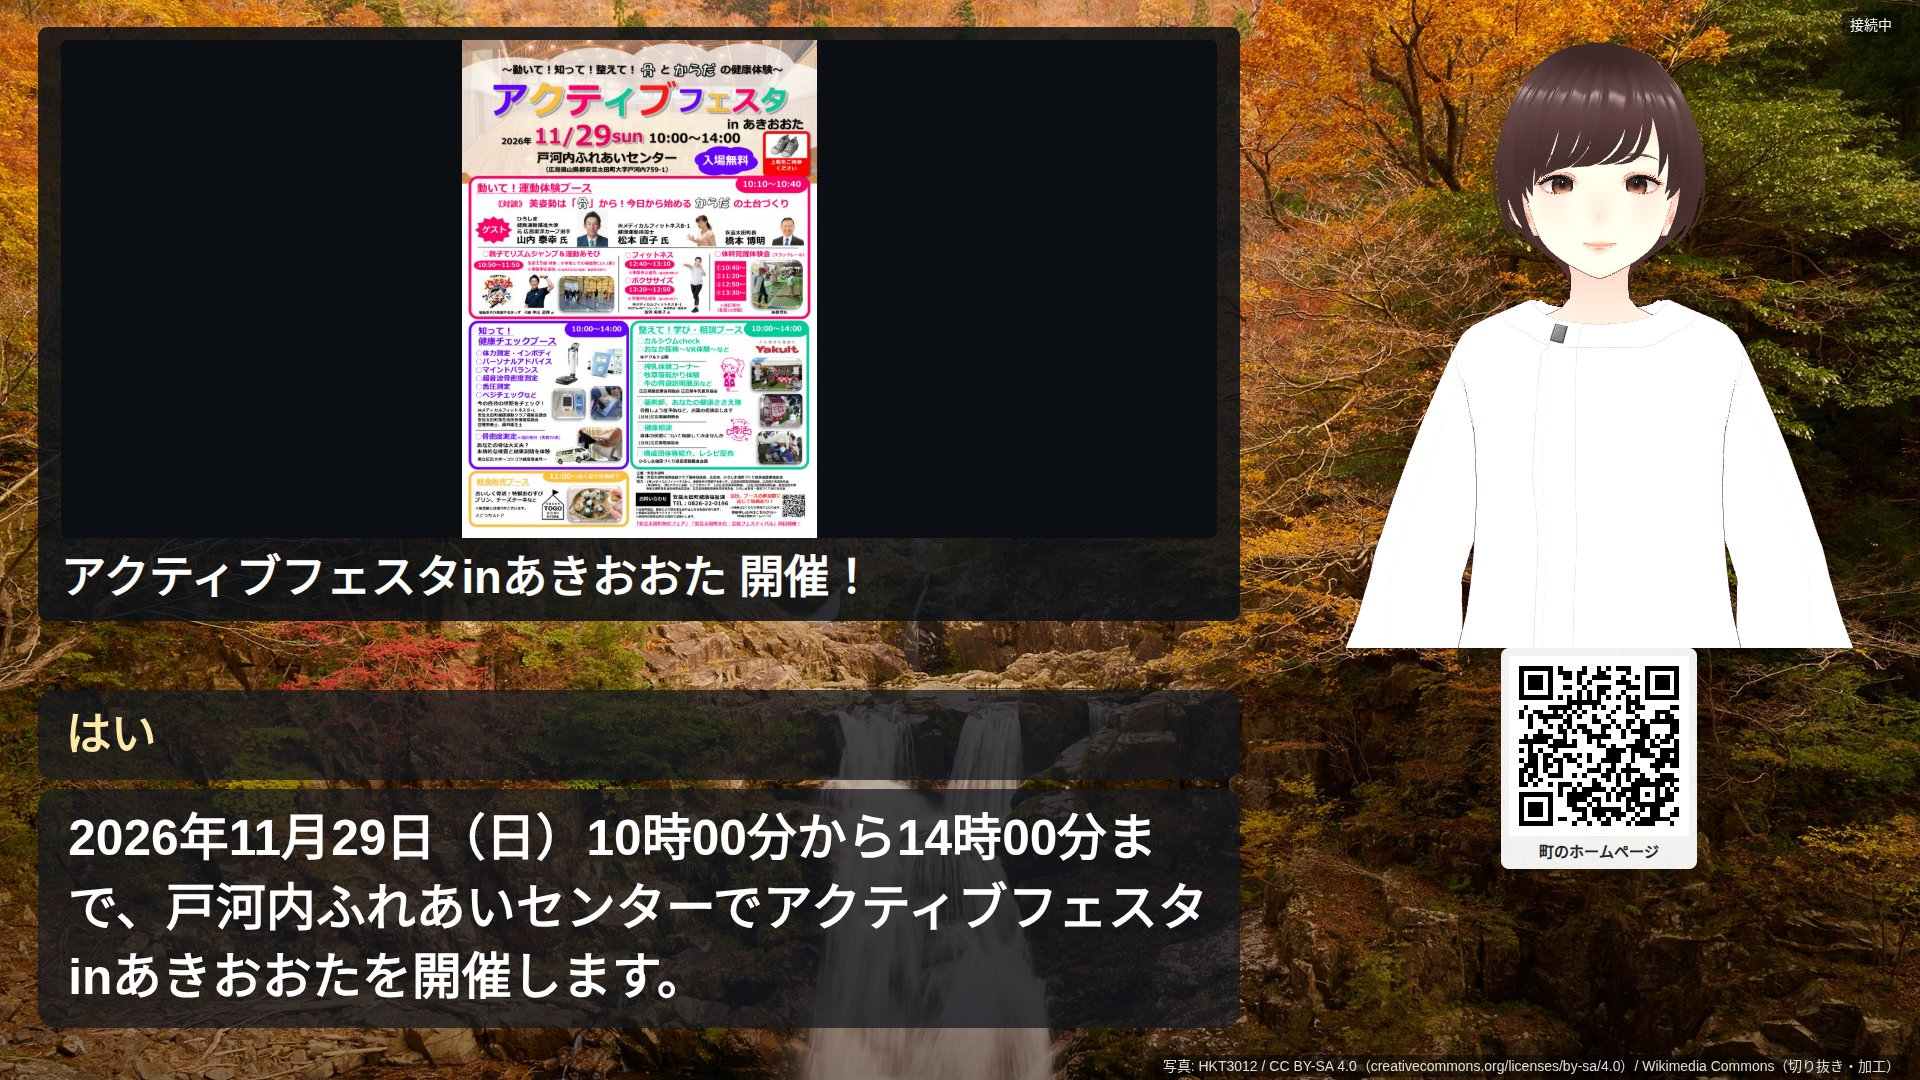
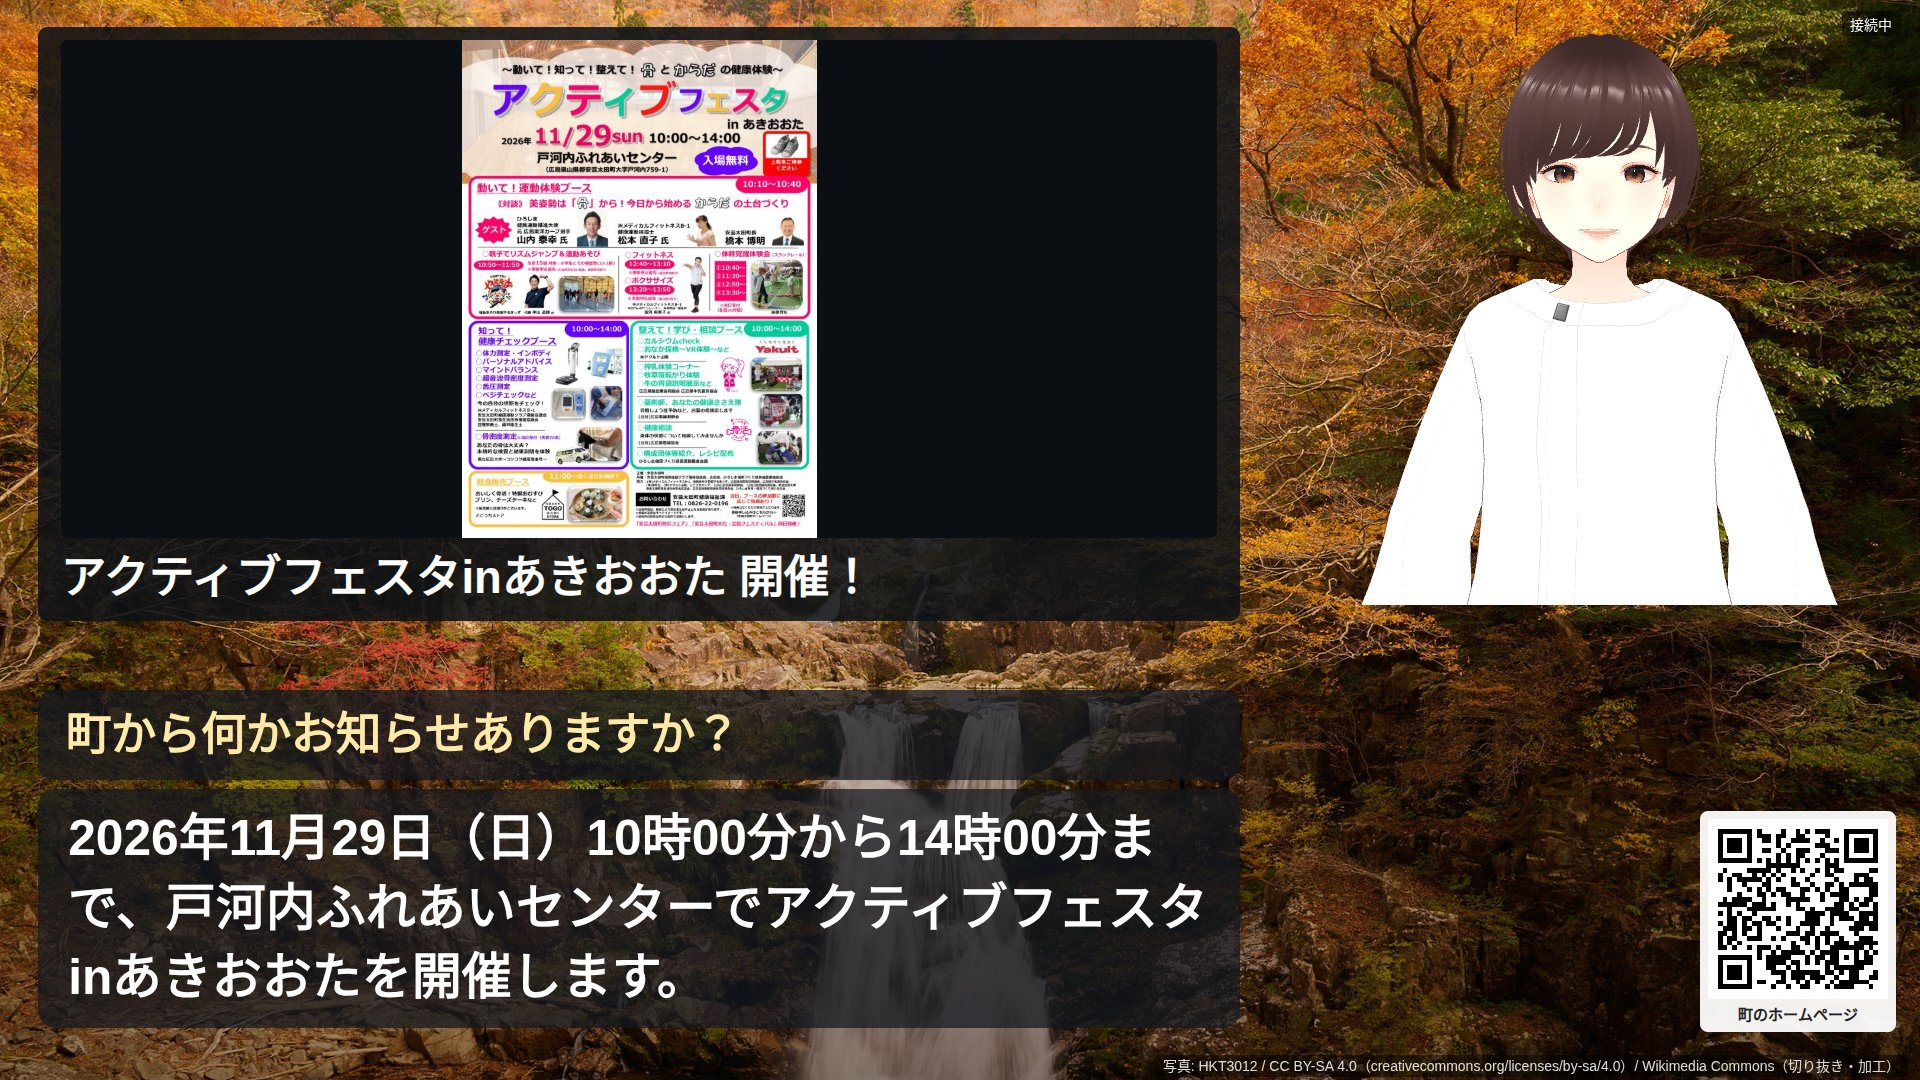
WP11 実機確認の直し（2 回目）: 返事の判定（頭の相槌の後ろの語を優先・「わかりました」は同意）と、横置きの QR を右下隅へ
- actions.yaml の reply: leading_ack / decline_after_ack を足し、「うんないです」「はい大丈夫です」は辞退、「わかりました」「いいですね」は同意
- 横置きのニュース構図: QR は画面の右下隅（右 24px・下 48px、クレジットの上）、アバターは右 1/3 で少し上へ（QR と 207px 空く）
- スクリーンショットの撮り直し、残タスク 1-9（「今週末・いつ」があれば調べるを優先）

Changed region(s): [[0.6875, 0.4889, 1.0, 0.9778], [0.75, 0.0306, 0.9062, 0.3056], [0.0312, 0.6417, 0.375, 0.7028]]

diff --git a/edge/src/style.css b/edge/src/style.css
@@ -138,11 +138,13 @@ body.fading #news {
   font-weight: 600;
 }
 
-/* 横置き: 左 2/3 に記事の板、右 1/3 にアバター（胸から上）、アバターの足元に QR（一辺 180px） */
+/* 横置き: 左 2/3 に記事の板、右 1/3 にアバター（胸から上、少し上に寄せる）、QR（一辺 180px）は画面の右下隅
+   （クレジットの上。右端から 24px・下から 48px）。アバターの下端と QR の上端は 40px 以上空ける
+   （QR の箱は 180px ＋ 文字・余白で約 224px → アバターの canvas は下から 48 + 224 + 40 = 312px より上） */
 body.layout-news:not(.portrait) #avatar {
   left: 66.6vw;
   width: 33.4vw;
-  height: 60vh;
+  height: min(56vh, calc(100vh - 312px));
 }
 
 body.layout-news:not(.portrait) #news-board {
@@ -163,9 +165,8 @@ body.layout-news:not(.portrait) .caption.assistant {
 
 body.layout-news:not(.portrait) #news-qr {
   --qr-size: 180px;
-  left: calc(66.6vw + 16.7vw);
-  top: 60vh;
-  transform: translateX(-50%);
+  right: 24px;
+  bottom: 48px;
 }
 
 /* 横置きの字幕は左の列（右下の QR と重ねない） */

diff --git a/server/tests/test_wp11_unit.py b/server/tests/test_wp11_unit.py
@@ -9,8 +9,9 @@ from pathlib import Path
 from typing import Any
 
 import httpx
+import pytest
 
-from src.config import SERVER_ROOT, DialogueConfig, NewsConfig, StaffConfig
+from src.config import SERVER_ROOT, ActionsConfig, DialogueConfig, NewsConfig, StaffConfig
 from src.dialogue import Dialogue
 from src.knowledge import JST
 from src.news import (
@@ -446,6 +447,17 @@ async def test_news_after_closing_reply_on_procedure_topic(tmp_path: Path) -> No
     await _say(c, "国保のことで聞きに来ました。")  # 紹介状の提案（LLM）
     await _say(c, "退職とかで。")  # 返事として分からない → 聞き直し（話題の続きに数える）
     await _say(c, "いえ、大丈夫です。")  # 辞退
+    # 辞退の直後の「わかりました」は（同意の語なので）行為の後の相づちとして受け、お知らせの提案
+    assert await _say(c, "わかりました。") == [N["ack_prefix"], PROPOSE]
+    assert c._session.proposals[-1]["trigger"] == "行為の後"
+
+
+async def test_news_after_closing_reply_without_proposal(tmp_path: Path) -> None:
+    c, _ = _news_conv(tmp_path, ActLLM([["国保ですね。保健医療課です。"]]))
+    _with_procs(c)
+    c._cfg = ActionsConfig(enabled=())  # 紹介状を出さない拠点（規則の紹介状の提案も出ない）
+    await _say(c, "国保のことで聞きに来ました。")
+    await _say(c, "退職とかで。")
     assert await _say(c, "わかりました。") == [PROPOSE]  # 手続きの話の後の締めの返事 → お知らせの提案
     assert c._session.proposals[-1]["trigger"] == "手続きの話の後の締めの返事"
 
@@ -496,3 +508,16 @@ async def test_first_sentence_uses_procedure_name() -> None:
                  procedures=PROCS, now=lambda: NOW)
     out = await _collect(d, "うんと国保のことで聞きに来ました。")
     assert out[0].startswith("国民健康保険の加入（退職・転入など）についてご相談ですね") and "国保税" not in out[0]
+
+
+@pytest.mark.parametrize(("text", "verdict"), [
+    ("うんないです。", "no"), ("うん、ないです", "no"), ("はい大丈夫です", "no"), ("ええ、けっこうです", "no"),
+    ("わかりました", "yes"), ("わかりました。", "yes"), ("はいはい", "yes"), ("了解です", "yes"),
+    ("いいですね", "yes"), ("いいです", "no"), ("うん、お願い", "yes"), ("いや、お願いします", "yes"), ("うん", "yes"),
+])
+def test_reply_after_leading_ack(text: str, verdict: str) -> None:
+    """頭の相槌（うん・はい）より後ろの語を優先する。「わかりました」は提案を受けた返事として同意（WP11 の実機確認）。"""
+    from src.actions import classify_reply, load_templates
+
+    words, _ = load_templates(SERVER_ROOT / "context" / "actions.yaml")
+    assert classify_reply(text, words) == verdict

diff --git a/server/src/actions.py b/server/src/actions.py
@@ -70,13 +70,16 @@ class ReplyWords:
     yes_override: list[str]
     no: list[str]
     yes: list[str]
+    leading_ack: list[str] = field(default_factory=list)
+    no_after_ack: list[str] = field(default_factory=list)
 
 
 def load_templates(path: Path) -> tuple[ReplyWords, dict[str, dict[str, str]]]:
     data = yaml.safe_load(path.read_text(encoding="utf-8")) or {}
     r = data.get("reply") or {}
     words = ReplyWords(*([str(x) for x in r.get(k) or []]
-                         for k in ("strong_consent", "consent_override", "decline", "consent")))
+                         for k in ("strong_consent", "consent_override", "decline", "consent",
+                                   "leading_ack", "decline_after_ack")))
     actions = {str(k): {str(a): str(b) for a, b in (v or {}).items()} for k, v in (data.get("actions") or {}).items()}
     return words, actions
 
@@ -88,6 +91,15 @@ def classify_reply(text: str, words: ReplyWords) -> str:
     「はい、大丈夫です」は辞退（よくある言い方）、「いや、お願いします」は同意。
     """
     t = text.strip()
+    ack = next((a for a in sorted(words.leading_ack, key=len, reverse=True) if t.startswith(a)), None)
+    rest = re.sub(r"^[\s、。,.!！]+", "", t[len(ack):]) if ack else ""
+    if rest:
+        # 「うん、ないです」「はい、大丈夫です」: 頭の相槌より後ろの語を優先する
+        if not any(w in rest for w in words.strong_yes + words.yes_override) and any(w in rest for w in words.no_after_ack):
+            return "no"
+        verdict = classify_reply(rest, words)
+        if verdict != "unclear":
+            return verdict
     if any(w in t for w in words.strong_yes) or any(w in t for w in words.yes_override):
         return "yes"
     if any(w in t for w in words.no):
